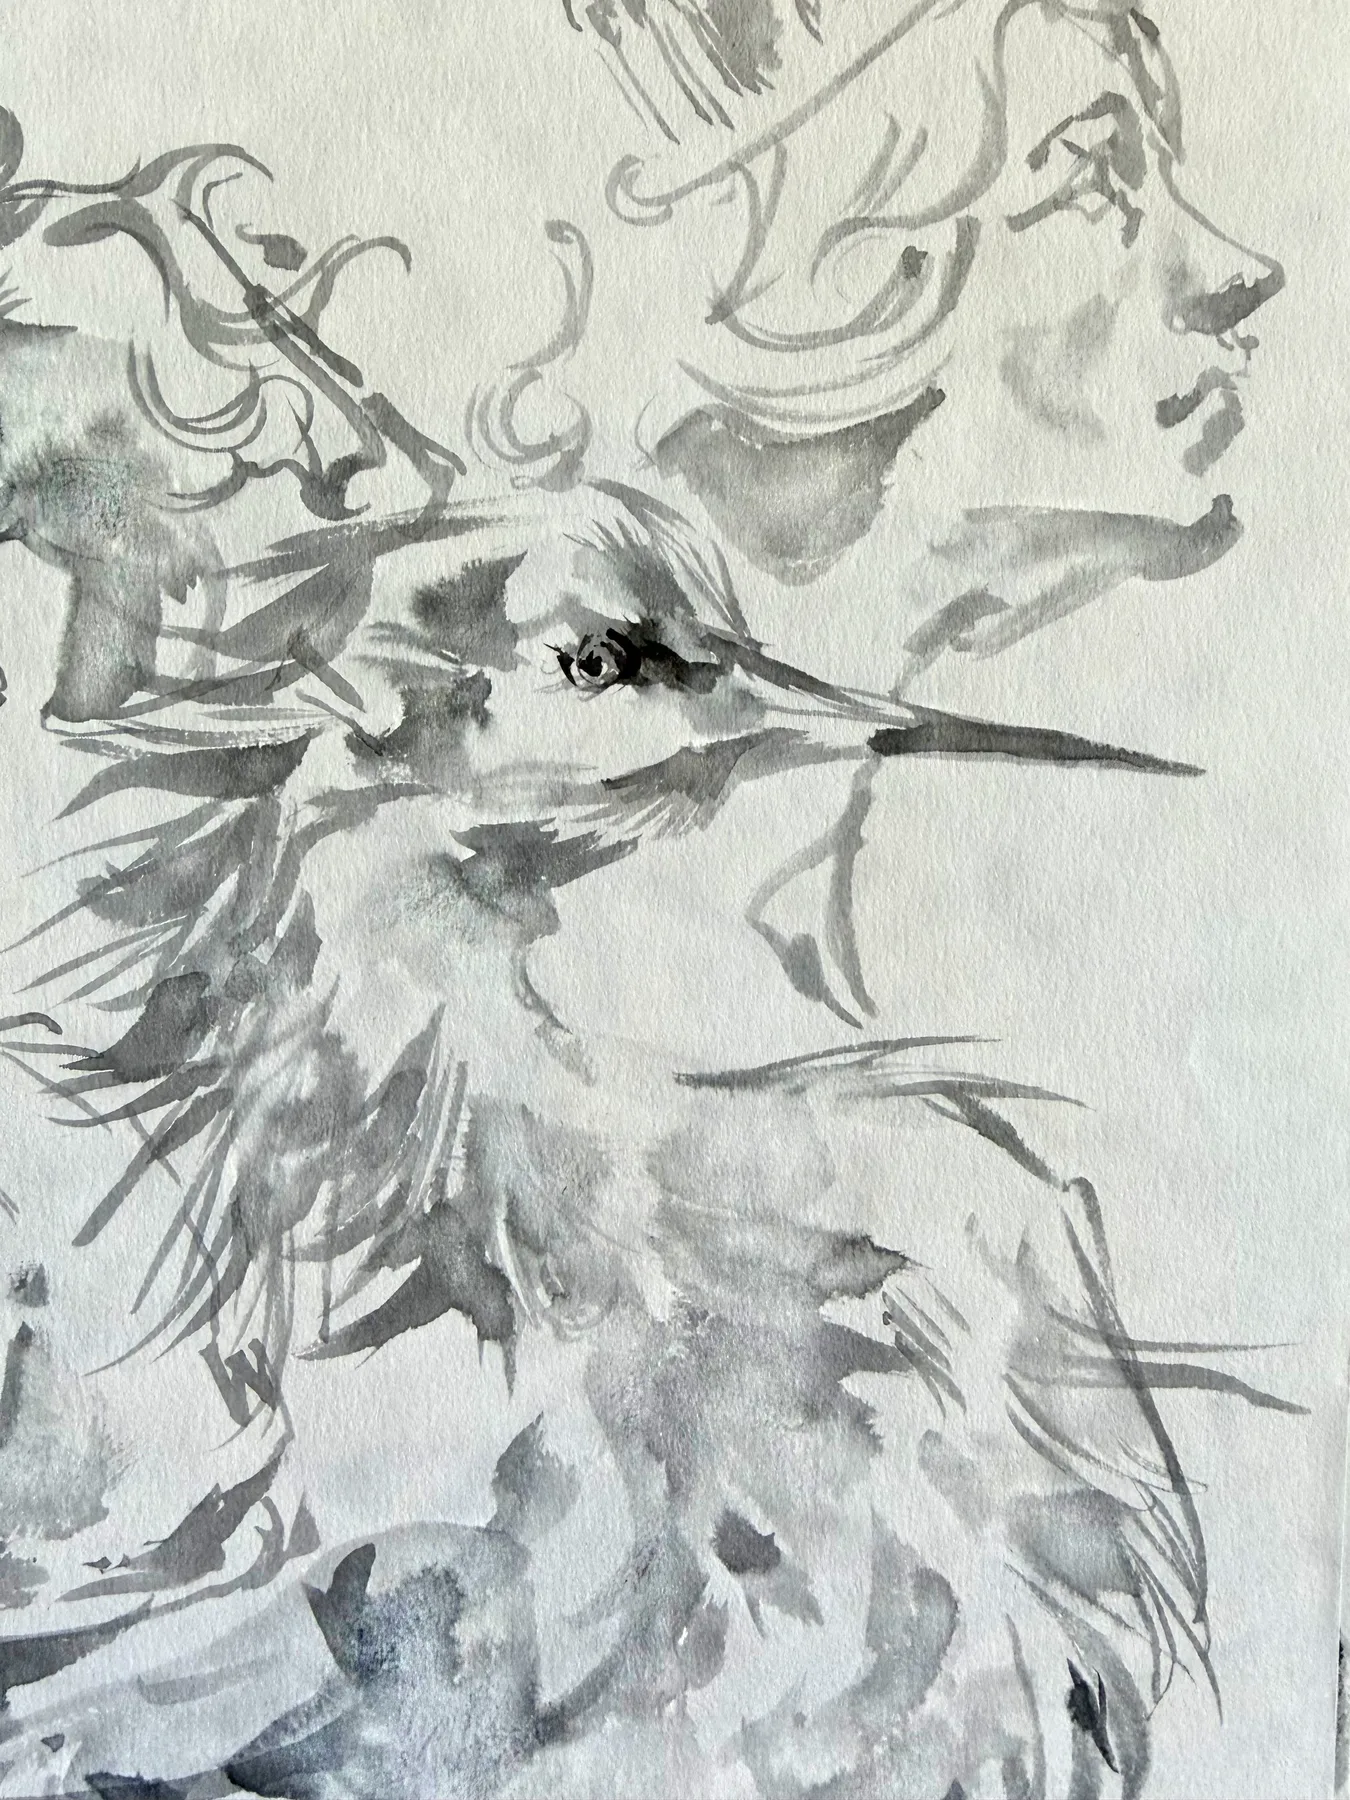
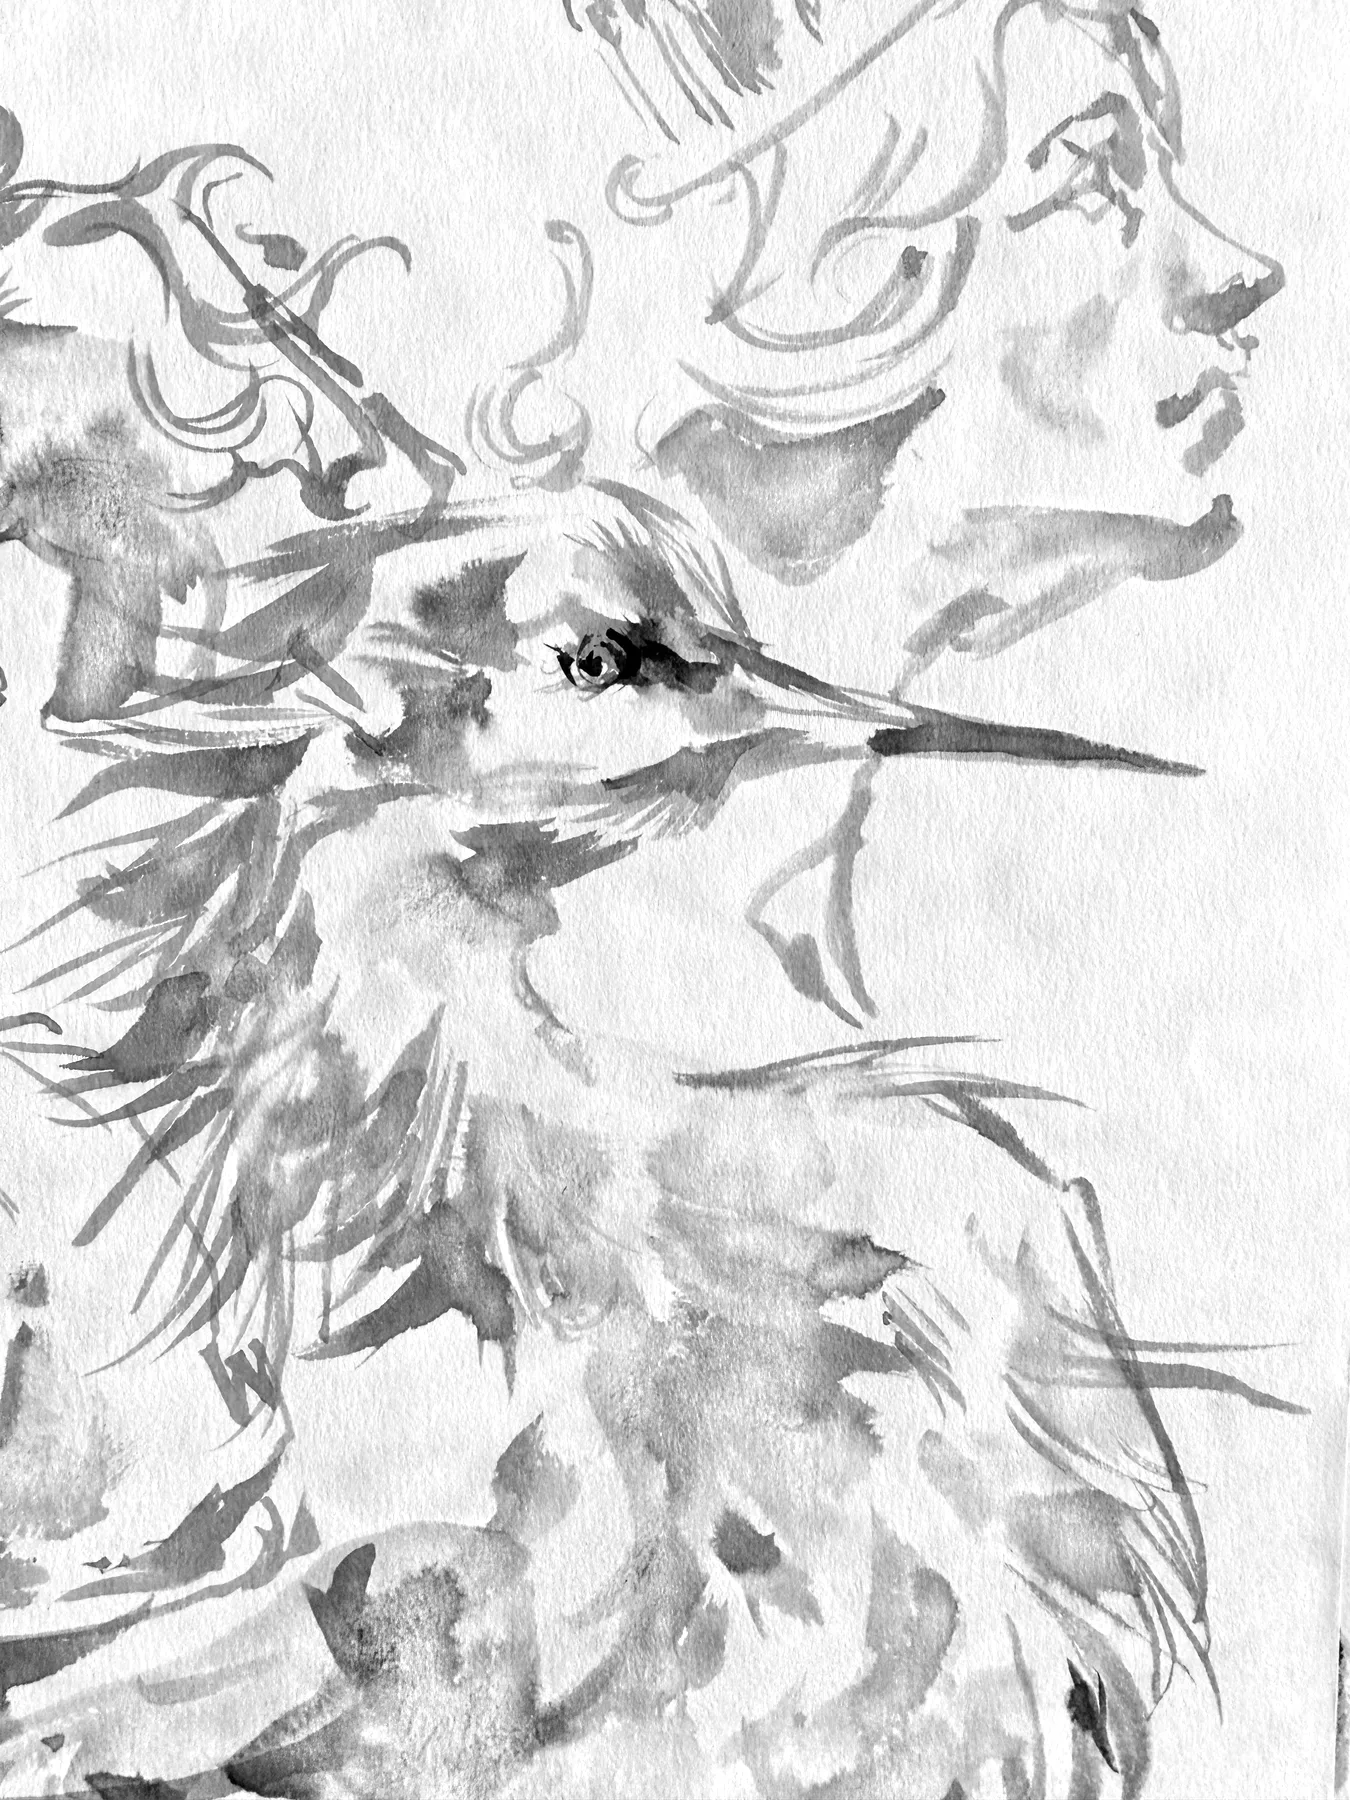
Brighten ink plates, keep color optional, filter Feed by ink/color.
Default the pipeline back to greyscale with a brighter paper stretch, leave Cassowary as color via --color, retouch Profile study and Bird and profile, and add All/Ink/Color filters on the Feed.

diff --git a/src/components/FeedGallery.tsx b/src/components/FeedGallery.tsx
@@ -1,0 +1,51 @@
+"use client";
+
+import { useMemo, useState } from "react";
+import type { ExerciseMeta } from "@/lib/exercises";
+import { Gallery } from "./Gallery";
+
+type Filter = "all" | "ink" | "color";
+
+type Props = {
+  exercises: ExerciseMeta[];
+};
+
+const FILTERS: { id: Filter; label: string }[] = [
+  { id: "all", label: "All" },
+  { id: "ink", label: "Ink" },
+  { id: "color", label: "Color" },
+];
+
+export function FeedGallery({ exercises }: Props) {
+  const [filter, setFilter] = useState<Filter>("all");
+
+  const visible = useMemo(() => {
+    if (filter === "color") return exercises.filter((item) => item.color);
+    if (filter === "ink") return exercises.filter((item) => !item.color);
+    return exercises;
+  }, [exercises, filter]);
+
+  const colorCount = exercises.filter((item) => item.color).length;
+
+  return (
+    <>
+      {colorCount > 0 ? (
+        <div className="gallery-filters" role="tablist" aria-label="Filter feed">
+          {FILTERS.map(({ id, label }) => (
+            <button
+              key={id}
+              type="button"
+              role="tab"
+              aria-selected={filter === id}
+              className={`gallery-filter${filter === id ? " is-active" : ""}`}
+              onClick={() => setFilter(id)}
+            >
+              {label}
+            </button>
+          ))}
+        </div>
+      ) : null}
+      <Gallery exercises={visible} label="Feed" />
+    </>
+  );
+}

diff --git a/src/app/globals.css b/src/app/globals.css
@@ -113,6 +113,35 @@ img {
 
 /* ——— Gallery ——— */
 
+.gallery-filters {
+  display: flex;
+  flex-wrap: wrap;
+  gap: 0.65rem 1.1rem;
+  padding: 0.15rem var(--page-pad) 1rem;
+}
+
+.gallery-filter {
+  font-family: var(--font-ui), system-ui, sans-serif;
+  font-size: 0.72rem;
+  letter-spacing: 0.16em;
+  text-transform: uppercase;
+  color: var(--muted, #777);
+  background: transparent;
+  border: 0;
+  border-bottom: 1px solid transparent;
+  padding: 0.1rem 0 0.2rem;
+  cursor: pointer;
+}
+
+.gallery-filter:hover {
+  color: var(--fg);
+}
+
+.gallery-filter.is-active {
+  color: var(--fg);
+  border-bottom-color: var(--fg);
+}
+
 .gallery {
   display: grid;
   grid-template-columns: repeat(4, minmax(0, 1fr));

diff --git a/src/lib/exercises.ts b/src/lib/exercises.ts
@@ -24,6 +24,8 @@ export type ExerciseMeta = {
   wide?: boolean;
   medium?: string;
   placeholderColor?: string;
+  /** True when the plate keeps ink/watercolor hue (not greyscale). */
+  color?: boolean;
   readingTime: string;
 };
 
@@ -83,6 +85,7 @@ function toMeta(
     wide: Boolean(data.wide),
     medium: asString(data.medium) || undefined,
     placeholderColor: asString(data.placeholderColor) || undefined,
+    color: Boolean(data.color),
     readingTime: stats.text,
   };
 }

diff --git a/src/app/page.tsx b/src/app/page.tsx
@@ -1,7 +1,7 @@
-import { Gallery } from "@/components/Gallery";
+import { FeedGallery } from "@/components/FeedGallery";
 import { getExercisesByCategory } from "@/lib/exercises";
 
 export default function HomePage() {
   const plates = getExercisesByCategory("feed");
-  return <Gallery exercises={plates} label="Feed" />;
+  return <FeedGallery exercises={plates} />;
 }

diff --git a/docs/plate-pipeline.md b/docs/plate-pipeline.md
@@ -5,14 +5,19 @@ Phone photos of ink-on-paper sketches usually look grey and uneven: the page is 
 ## How to run it
 
 ```bash
-# Feed (default) — casual uploads
+# Feed (default) — greyscale ink plates
 npm run plate -- ./photo.jpg --caption "Face study"
+
+# Occasional color wash / watercolor
+npm run plate -- ./photo.jpg --caption "Cassowary" --color
 
 # Form Construction — intentional perspective plates
 npm run plate -- ./photo.jpg --caption "Two-point boxes" --section form-construction
 ```
 
-Optional flags: `--title`, `--date` (`YYYY-MM-DD`).
+Optional flags: `--title`, `--date` (`YYYY-MM-DD`), `--slug` (overwrite an existing plate), `--color`.
+
+Default processing is **greyscale** (most plates). Pass `--color` to keep hue; that also sets `color: true` in the Markdown so the Feed can filter **All / Ink / Color**.
 
 Batch convert originals in `assets/` (no Markdown):
 
@@ -29,7 +34,7 @@ Both `npm run plate` and `npm run art` call the same processor: [`scripts/lib/pr
 photo (jpg / png / heic…)
         │
         ▼
-  EXIF rotate → greyscale → resize (max edge 1800)
+  EXIF rotate → (greyscale unless --color) → resize (max edge 1800)
         │
         ▼
   Flatten uneven lighting
@@ -37,17 +42,19 @@ photo (jpg / png / heic…)
         │
         ▼
   Percentile normalize (paper → white, ink → black)
+  greyscale uses a slightly brighter clip
         │
         ▼
   WebP (q≈82) → public/art/<slug>.webp
         │
         ▼
   (plate only) Markdown → content/<section>/<slug>.md
+                 including color: true|false
 ```
 
-### 1. Orient and resize
+### 1. Orient, optional greyscale, resize
 
-`sharp` applies EXIF orientation and fits the long edge into 1800px. Color is kept (ink washes, watercolor) — illumination is corrected on RGB, not forced to greyscale.
+`sharp` applies EXIF orientation, optionally converts to greyscale, and fits the long edge into 1800px.
 
 HEIC from iPhones is converted with macOS `sips` first (sharp does not decode HEIC).
 
@@ -58,36 +65,23 @@ Phone shots of a page almost always have a vignette or a soft shadow from the ha
 Instead the pipeline estimates the *paper* as a slowly varying field:
 
 1. Split the image into coarse blocks (~1/40 of the short edge).
-2. In each block, take the **local maximum** of the brightest channel — ink/wash is darker than paper, so that response tracks illumination.
-3. Upsample that field with **bilinear** interpolation from block centers (smooth block edges without bleeding bright center values into dark corners the way a large Gaussian blur would).
-4. Divide each RGB channel by this field and rescale toward a paper reference (~245).
-
-After this step, a shadowed corner and a bright center both read as similar paper white, and blue/grey washes keep their hue.
+2. In each block, take the **local maximum** (brightest channel when color) — ink/wash is darker than paper, so that response tracks illumination.
+3. Upsample that field with **bilinear** interpolation from block centers.
+4. Divide by this field and rescale toward a paper reference (~252 for ink, ~245 for color).
 
 ### 3. Stretch levels
 
-A percentile normalize (`lower ≈ 0.5`, `upper ≈ 99`) maps:
+A percentile normalize maps darkest ink → near black and paper → near white. Ink plates use a slightly lower upper percentile so the page reads a bit brighter on the Feed.
 
-- darkest ink → near black  
-- paper → near white  
+### 4. Encode + write content
 
-Faint pencil sits in the midtones, so it is not crushed to black or wiped out with the paper.
+Output is WebP under `public/art/`. `npm run plate` also writes frontmatter (title, date, caption, image, aspect ratio, `color`) into `content/`.
 
-### 4. Encode + (for `plate`) write content
-
-Output is WebP under `public/art/`. `npm run plate` also writes frontmatter Markdown (title, date, caption, image path, aspect ratio) into `content/feed/` or `content/form-construction/`.
-
-Originals can live in `assets/` (gitignored). Only the processed WebP and Markdown are committed.
+The Feed UI reads `color` and offers **All / Ink / Color** filters when at least one color plate exists.
 
 ## Why not an AI model?
 
-For this specific job — whitening grey paper and evening phone lighting while keeping ink and light pencil — classical illumination correction is enough:
-
-- Deterministic and fast (no GPU, no API key)
-- Does not invent or erase strokes
-- Easy to tune (block size, percentiles, paper reference)
-
-A learned cleanup model could help later for stains, show-through, or aggressive desk clutter. That would be an optional step on top of this pipeline, not a replacement for it.
+For whitening grey paper and evening phone lighting while keeping ink and light pencil, classical illumination correction is enough: deterministic, fast, no API key, and it does not invent strokes. A learned cleanup model could help later for stains or desk clutter as an optional step.
 
 ## Where plates belong
 
@@ -105,3 +99,4 @@ A learned cleanup model could help later for stains, show-through, or aggressive
 | [`scripts/ingest-plate.mjs`](../scripts/ingest-plate.mjs) | `npm run plate` — process + Markdown |
 | [`scripts/prepare-art.mjs`](../scripts/prepare-art.mjs) | `npm run art` — batch `assets/` → `public/art/` |
 | [`scripts/new-post.mjs`](../scripts/new-post.mjs) | `npm run post` — writing-only note |
+| [`src/components/FeedGallery.tsx`](../src/components/FeedGallery.tsx) | Feed All / Ink / Color filter |

diff --git a/README.md b/README.md
@@ -38,7 +38,7 @@ To file it as a construction plate instead:
 npm run plate -- ./photo.jpg --caption "Two-point boxes" --section form-construction
 ```
 
-That pipeline fixes orientation, flattens uneven phone lighting, stretches the paper toward white, and writes WebP + Markdown. Details, rationale, and the code map are in **[docs/plate-pipeline.md](docs/plate-pipeline.md)**.
+That pipeline fixes orientation, flattens uneven phone lighting, stretches the paper toward white (greyscale by default; pass `--color` for washes), and writes WebP + Markdown. The Feed can filter **All / Ink / Color**. Details are in **[docs/plate-pipeline.md](docs/plate-pipeline.md)**.
 
 ```bash
 npm run post -- "Why boxes first" drafting-meta

diff --git a/content/feed/button-eyed-schnauzer.md b/content/feed/button-eyed-schnauzer.md
@@ -6,5 +6,6 @@ excerpt: "Button eyed Schnauzer"
 image: "/art/button-eyed-schnauzer.webp"
 aspectRatio: "1350 / 1800"
 wide: false
+color: false
 ---
 

diff --git a/content/feed/bird-and-profile.md b/content/feed/bird-and-profile.md
@@ -6,5 +6,6 @@ excerpt: "Bird and profile"
 image: "/art/bird-and-profile.webp"
 aspectRatio: "1350 / 1800"
 wide: false
+color: false
 ---
 

diff --git a/content/feed/bird-woman-study.md b/content/feed/bird-woman-study.md
@@ -6,5 +6,6 @@ excerpt: "Bird-woman study"
 image: "/art/bird-woman-study.webp"
 aspectRatio: "1350 / 1800"
 wide: false
+color: false
 ---
 

diff --git a/content/feed/beast-and-figure.md b/content/feed/beast-and-figure.md
@@ -6,5 +6,6 @@ excerpt: "Beast and figure"
 image: "/art/beast-and-figure.webp"
 aspectRatio: "1800 / 1350"
 wide: true
+color: false
 ---
 

diff --git a/content/feed/profile-study.md b/content/feed/profile-study.md
@@ -6,5 +6,6 @@ excerpt: "Profile study"
 image: "/art/profile-study.webp"
 aspectRatio: "1350 / 1800"
 wide: false
+color: false
 ---
 

diff --git a/content/feed/face-study.md b/content/feed/face-study.md
@@ -6,5 +6,6 @@ excerpt: "Face study"
 image: "/art/face-study.webp"
 aspectRatio: "1350 / 1800"
 wide: false
+color: false
 ---
 
